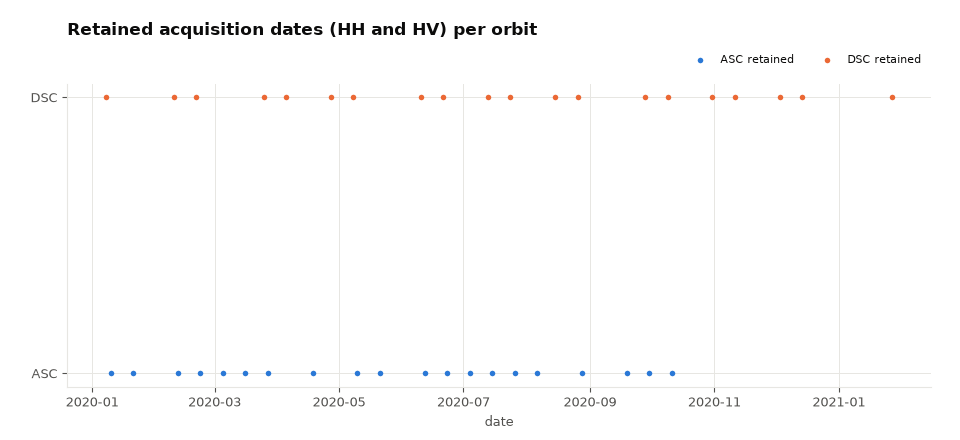
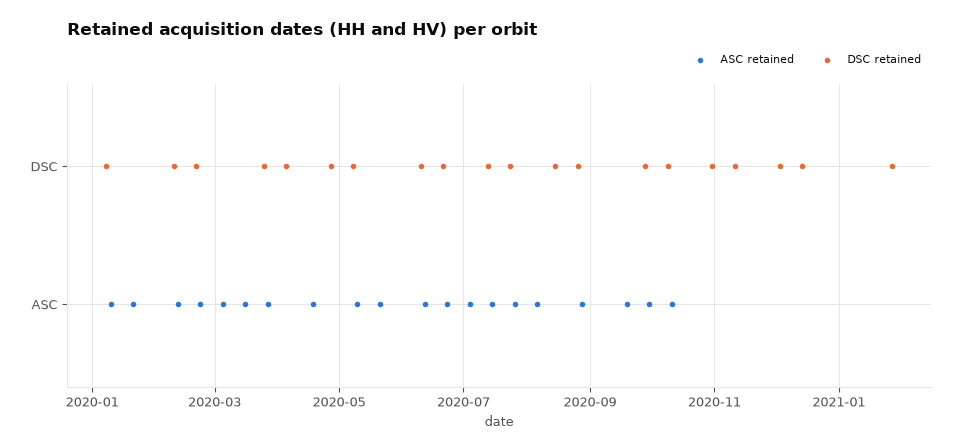
docs: documentation steps for a new dataset; renderer and preview fixes
- adding.md: page, figures, previews, domain toctree and tiles, citation.
- figures_io: box-plot labels, empty panels (no groups), axis tick labels;
  MSTAR / FUSAR-Ship mean plots and PASTIS-R / CPAZMaL date plots redrawn.
- make_previews: fewer colours for the PASTIS-R natural images.

diff --git a/doc/tools/figures_io.py b/doc/tools/figures_io.py
@@ -168,7 +168,8 @@ def render_static(fig: dict, path: Path, theme: str, width=9.6, height=4.4, dpi=
                      and tr.get("type") not in ("heatmap",)) > 1
     top = top - 0.05 if has_legend else top
     rotated = any(tr.get("type") == "bar" and tr.get("x") is not None
-                  and 8 < len(decode(tr["x"])) <= 60 for tr in data)
+                  and 8 < len(decode(tr["x"])) <= 60 for tr in data) \
+        or sum(tr.get("type") == "box" for tr in data) > 6
     bottom = 0.30 if rotated else 0.12
     boxes = _axes_layout(layout)
     many_panels = len(boxes) > 1
@@ -184,6 +185,9 @@ def render_static(fig: dict, path: Path, theme: str, width=9.6, height=4.4, dpi=
             ax.set_ylabel(ya["title"]["text"])
         if ya.get("type") == "log":
             ax.set_yscale("log")
+        if ya.get("tickvals") is not None and ya.get("ticktext") is not None:
+            ax.set_yticks(decode(ya["tickvals"]), ya["ticktext"])
+            ax.set_ylim(min(decode(ya["tickvals"])) - 0.6, max(decode(ya["tickvals"])) + 0.6)
         axes[suffix] = ax
 
     groups = [tr for tr in data if tr.get("type") == "bar"]
@@ -237,17 +241,17 @@ def render_static(fig: dict, path: Path, theme: str, width=9.6, height=4.4, dpi=
             ax.set_xlabel(ax.get_xlabel() or "samples per group")
         elif typ == "box":
             y = np.asarray(decode(tr.get("y")), dtype=float)
-            i = seq.setdefault(id(ax), [0])
-            bp = ax.boxplot(y, positions=[i[0]], widths=0.6, patch_artist=True, showfliers=False)
+            names = seq.setdefault(("box", id(ax)), [])
+            bp = ax.boxplot(y[np.isfinite(y)], positions=[len(names)], widths=0.6,
+                            patch_artist=True, showfliers=False)
             for b in bp["boxes"]:
                 b.set_facecolor(color), b.set_edgecolor(t["muted"])
             for part in ("whiskers", "caps", "medians"):
                 for line in bp[part]:
                     line.set_color(t["muted"])
-            ticks = list(ax.get_xticks()) if i[0] else []
-            labels = [tl.get_text() for tl in ax.get_xticklabels()] if i[0] else []
-            ax.set_xticks(ticks + [i[0]], labels + [str(tr.get("name", ""))], rotation=45, fontsize=7)
-            i[0] += 1
+            names.append(str(tr.get("name", "")))
+            ax.set_xticks(range(len(names)), names, rotation=45 if len(names) > 6 else 0,
+                          ha="right" if len(names) > 6 else "center", fontsize=7)
         else:  # scatter, scattergl
             x = decode(tr.get("x"))
             y = decode(tr.get("y"))
@@ -256,6 +260,7 @@ def render_static(fig: dict, path: Path, theme: str, width=9.6, height=4.4, dpi=
                 cats += [c for c in dict.fromkeys(y) if c not in cats]
                 y = np.asarray([cats.index(c) for c in y], dtype=float)
                 ax.set_yticks(range(len(cats)), cats)
+                ax.set_ylim(-0.6, len(cats) - 0.4)
             y = np.asarray(y, dtype=float)
             x = np.arange(1, len(y) + 1) if x is None else x
             if tr.get("fill") == "toself":
@@ -275,6 +280,8 @@ def render_static(fig: dict, path: Path, theme: str, width=9.6, height=4.4, dpi=
     for suffix, ax in axes.items():
         if layout.get(f"yaxis{suffix}", {}).get("autorange") == "reversed":
             ax.invert_yaxis()
+        if not ax.has_data():  # empty panel (e.g. no groups): keep only its annotation
+            ax.set_axis_off()
     if title:
         f.text(0.07, 0.95, title, fontsize=12, color=t["ink"], ha="left", va="top", fontweight="bold")
     for an in layout.get("annotations", []):

diff --git a/doc/tools/make_previews.py b/doc/tools/make_previews.py
@@ -419,7 +419,10 @@ def _draw(ax, kind, a, theme):
         s.set_visible(False)
 
 
-def _png(fig, path, facecolor):
+COLOURS = {"pastis_r": 48}  # natural images: fewer colours keep the PNG small
+
+
+def _png(fig, path, facecolor, colors=128):
     import matplotlib.pyplot as plt
     from PIL import Image
 
@@ -427,7 +430,7 @@ def _png(fig, path, facecolor):
     fig.savefig(buf, format="png", facecolor=facecolor)
     plt.close(fig)
     buf.seek(0)
-    Image.open(buf).convert("RGB").quantize(colors=128, method=Image.Quantize.MEDIANCUT,
+    Image.open(buf).convert("RGB").quantize(colors=colors, method=Image.Quantize.MEDIANCUT,
                                             dither=Image.Dither.NONE).save(path, optimize=True)
 
 
@@ -461,7 +464,8 @@ def draw(name, panels):
             fig.subplots_adjust(left=0.14, right=0.99, bottom=0.03, top=0.97, hspace=0.12)
         else:
             fig.subplots_adjust(left=0.01, right=0.99, bottom=0.02, top=0.88, wspace=0.08)
-        _png(fig, out / ("samples.png" if theme == "light" else "samples_dark.png"), t["surface"])
+        _png(fig, out / ("samples.png" if theme == "light" else "samples_dark.png"), t["surface"],
+             COLOURS.get(name, 128))
     # thumbnail: 16:9, no text, on the dark surface (the tiles show it in both themes)
     n = len(panels)
     fig, axes = plt.subplots(n if wide else 1, 1 if wide else n, figsize=(4.8, 2.7), dpi=100,
@@ -469,7 +473,7 @@ def draw(name, panels):
     for ax, (kind, a, _) in zip(axes.ravel(), panels, strict=True):
         _draw(ax, kind, a, "dark")
     fig.subplots_adjust(left=0.02, right=0.98, bottom=0.04, top=0.96, wspace=0.05, hspace=0.1)
-    _png(fig, out / "thumb.png", THEMES["dark"]["surface"])
+    _png(fig, out / "thumb.png", THEMES["dark"]["surface"], COLOURS.get(name, 128))
     return {p.name: p.stat().st_size for p in sorted(out.glob("*.png"))}
 
 

diff --git a/doc/datasets/adding.md b/doc/datasets/adding.md
@@ -62,3 +62,29 @@ from .my_dataset import MyDataset
   subset options behave the same across datasets.
 - Add a test that loads a few samples when the data are available (see
   `tests/`).
+
+## Documentation page
+
+Every dataset has a page in `doc/datasets/`. The build is strict (`-W`): a
+page that is in no toctree, or a figure that is missing, fails it.
+
+1. Copy `doc/datasets/_template.md` to `doc/datasets/<name>.md` and fill every
+   section.
+2. On a machine that holds the data, draw its figures and previews:
+
+   ```bash
+   PYTHONPATH=src python doc/tools/make_figures.py <name> --kwargs '{...}' --split <split>
+   PYTHONPATH=src python doc/tools/make_previews.py <name>   # after adding a function for it
+   ```
+
+   They are written to `doc/_static/figures/<name>/` and
+   `doc/_static/previews/<name>/`; commit them, the CI has no data.
+3. Add the page to the toctree **and** the tiles of its domain page
+   (`doc/datasets/audio.md`, `hyperspectral.md`, `sar.md`, …).
+4. Write its publication in `doc/datasets/_cite/<name>.md` (resolve the DOI on
+   <https://doi.org>; without a DOI, link the source page), end the page with
+   its *How to cite* block and add it to `doc/references.md`.
+
+```{tip}
+`SPDNET_DATA_ROOT=/nonexistent make -C doc html` reproduces the CI build.
+```
